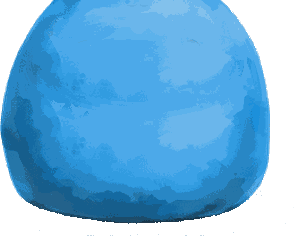
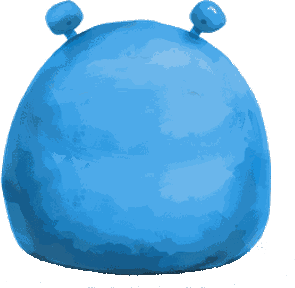
Boldbanen: hele den malede klat som krop
Klatten tegnes nu som det malede billede med oerer, i stedet for kodens
halvcirkel med billedet som overflade. Bredden er fysikkens, hoejden lidt
mere, som oererne altid har vaeret. Ansigtet tegnes stadig i kode og sidder
lidt hoejere paa den malede krop. Uden billede tegnes klatten som foer.
sw.js: v88.

Claude-Session: https://claude.ai/code/session_01JuJ2jhjKv5vpQpqD9x243Z

diff --git a/games/klatbold/js/game.js b/games/klatbold/js/game.js
@@ -473,69 +473,71 @@
     var vinkel = Math.atan2(kigY, kigX);
 
     /* ---- krop ---- */
+    // Den malede klat (billeder/klat-<farve>.png) er kroppen med oerer, uden ansigt.
+    // Den er lidt hoejere end fysikkens halvcirkel, som oererne altid har vaeret;
+    // bredden er den samme, saa bolden rammer, hvor man ser den. Mangler billedet,
+    // tegnes klatten i kode som foer.
+    var b = klatBilleder[farve.fil], malet = !!(b && b.complete && b.naturalWidth);
     c.save();
     c.scale(sqx, sqy);
-
-    // Oerer bag kroppen
-    [-1, 1].forEach(function (d) {
-      c.fillStyle = farve.moerk;
-      c.beginPath();
-      c.ellipse(d * R * 0.5, -R * 0.92, R * 0.19, R * 0.3, d * 0.3, 0, Math.PI * 2);
-      c.fill();
-      c.fillStyle = farve.lak;
-      c.beginPath();
-      c.ellipse(d * R * 0.5, -R * 0.94, R * 0.12, R * 0.21, d * 0.3, 0, Math.PI * 2);
-      c.fill();
-    });
-
-    // Malet halvcirkel: lys foroven, dyb forneden
-    var maling = c.createRadialGradient(-side * R * 0.28, -R * 0.62, R * 0.06, 0, -R * 0.2, R * 1.25);
-    maling.addColorStop(0, farve.lys);
-    maling.addColorStop(0.42, farve.lak);
-    maling.addColorStop(1, farve.moerk);
-    c.beginPath();
-    c.arc(0, 0, R, Math.PI, 0);
-    c.closePath();
-    c.fillStyle = maling;
-    c.fill();
-    // Den malede overflade, klippet til halvcirklen, saa formen (og fysikken) er den samme. Mangler billedet, staar gradienten alene.
-    var b = klatBilleder[farve.fil];
-    if (b && b.complete && b.naturalWidth) {
-      c.save();
-      c.beginPath(); c.arc(0, 0, R, Math.PI, 0); c.closePath(); c.clip();
-      var bb = R * 2.16, bh = R * 1.3;
+    if (malet) {
+      var bb = R * 2.15, bh = R * 1.5;
       c.drawImage(b, -bb / 2, R * 0.04 - bh, bb, bh);
-      c.restore();
+    } else {
+      // Oerer bag kroppen
+      [-1, 1].forEach(function (d) {
+        c.fillStyle = farve.moerk;
+        c.beginPath();
+        c.ellipse(d * R * 0.5, -R * 0.92, R * 0.19, R * 0.3, d * 0.3, 0, Math.PI * 2);
+        c.fill();
+        c.fillStyle = farve.lak;
+        c.beginPath();
+        c.ellipse(d * R * 0.5, -R * 0.94, R * 0.12, R * 0.21, d * 0.3, 0, Math.PI * 2);
+        c.fill();
+      });
+
+      // Malet halvcirkel: lys foroven, dyb forneden
+      var maling = c.createRadialGradient(-side * R * 0.28, -R * 0.62, R * 0.06, 0, -R * 0.2, R * 1.25);
+      maling.addColorStop(0, farve.lys);
+      maling.addColorStop(0.42, farve.lak);
+      maling.addColorStop(1, farve.moerk);
+      c.beginPath();
+      c.arc(0, 0, R, Math.PI, 0);
+      c.closePath();
+      c.fillStyle = maling;
+      c.fill();
+      c.strokeStyle = farve.moerk;
+      c.lineWidth = 3;
+      c.stroke();
     }
-    c.strokeStyle = farve.moerk;
-    c.globalAlpha = 0.55;
-    c.lineWidth = 2.5;
-    c.stroke();
-    c.globalAlpha = 1;
+    {
+      // Skygge langs jorden, saa den staar paa banen
+      c.save();
+      c.beginPath();
+      c.arc(0, 0, R, Math.PI, 0);
+      c.closePath();
+      c.clip();
+      var bund = c.createLinearGradient(0, -R * 0.35, 0, 0);
+      bund.addColorStop(0, 'rgba(74,58,44,0)');
+      bund.addColorStop(1, 'rgba(74,58,44,0.28)');
+      c.fillStyle = bund;
+      c.fillRect(-R, -R, R * 2, R);
+      c.restore();
 
-    // Skygge langs jorden, saa den staar paa banen
-    c.save();
-    c.beginPath();
-    c.arc(0, 0, R, Math.PI, 0);
-    c.closePath();
-    c.clip();
-    var bund = c.createLinearGradient(0, -R * 0.35, 0, 0);
-    bund.addColorStop(0, 'rgba(74,58,44,0)');
-    bund.addColorStop(1, 'rgba(74,58,44,0.28)');
-    c.fillStyle = bund;
-    c.fillRect(-R, -R, R * 2, R);
-    c.restore();
-
-    // Glans
-    c.fillStyle = 'rgba(255,255,255,0.26)';
-    c.beginPath();
-    c.ellipse(-side * R * 0.36, -R * 0.66, R * 0.2, R * 0.09, -side * 0.5, 0, Math.PI * 2);
-    c.fill();
+      if (!malet) {
+        // Glans
+        c.fillStyle = 'rgba(255,255,255,0.26)';
+        c.beginPath();
+        c.ellipse(-side * R * 0.36, -R * 0.66, R * 0.2, R * 0.09, -side * 0.5, 0, Math.PI * 2);
+        c.fill();
+      }
+    }
     c.restore();
 
     /* ---- ansigt ---- */
     // Ansigtet sidder paa den side klatten kigger, men holder sig inden for kroppen.
-    var øx = side * R * 0.36, øy = -R * 0.48;
+    // Paa den malede krop sidder ansigtet hoejere og lidt taettere paa midten
+    var øx = side * R * (malet ? 0.32 : 0.36), øy = -R * (malet ? 0.8 : 0.48);
 
     function oejne(rr, laag) {
       [-1, 1].forEach(function (d) {

diff --git a/sw.js b/sw.js
@@ -5,7 +5,7 @@
  * Naar du tilfoejer en fil til projektet, skal den med i FILER nedenfor,
  * og VERSION skal taelles op — ellers henter iPad'en den gamle version.
  */
-const VERSION = 'sfo-spil-v87';
+const VERSION = 'sfo-spil-v88';
 
 const FILER = [
   './',

diff --git a/README.md b/README.md
@@ -187,13 +187,13 @@ reaktionstid og hoppelyst for 1, 2 og 3 stjerner. Kør `npm test` bagefter.
 Klatterne er tegnet i kode i `games/klatbold/js/game.js`. `FARVER` er de seks
 farver med en lys top, en grundfarve og en dyb bund, og `tegnKlatForm` tegner
 kroppen og de fem ansigter: glad, sej og sød vælger barnet selv, og jubel og
-sur kommer af sig selv, når der bliver scoret. Oven på halvcirklen lægges en
-malet akvarelkrop fra `billeder/`, én pr. farve, klippet til formen; ét
-billede er malet, de fem andre er farvet om i kode, og ansigtet er fjernet, så
-koden stadig tegner øjne, der følger bolden. Mangler billedet, står kodens
-gradient alene. Kroppen er stadig en halvcirkel med radius `klatRadius`,
-præcis som i fysikken — ændrer man tegningen, må den ikke blive større eller
-mindre end det, bolden rammer.
+sur kommer af sig selv, når der bliver scoret. Kroppen er en malet
+akvarelklat fra `billeder/`, én pr. farve, med ører og uden ansigt; ét billede
+er malet, de fem andre er farvet om i kode, og koden tegner ansigtet ovenpå,
+så øjnene stadig følger bolden. Mangler billedet, tegnes klatten i kode som
+før. Den malede krop er lige så bred som fysikkens halvcirkel med radius
+`klatRadius` og lidt højere, som ørerne altid har været — ændrer man
+tegningen, må den ikke blive bredere eller smallere end det, bolden rammer.
 
 ## Skrue på Boblehavet
 

diff --git a/games/klatbold/billeder/NOTICE.md b/games/klatbold/billeder/NOTICE.md
@@ -13,11 +13,12 @@ Agreement. Der er ingen tredjepartsfigurer i den.
 Efterbehandling i kode (Pillow): den hvide baggrund er skaaret fra; det
 malede ansigt er daekket med et stykke af kroppen laengere nede, med bloed
 kant, saa spillet selv kan tegne de tre ansigter og oejne, der foelger bolden;
-oerer og skygge er klippet vaek; og de fem andre farver er lavet ved at flytte
+skyggen paa jorden er klippet vaek, oererne er med; og de fem andre farver er lavet ved at flytte
 kroppens roede toner til spillets farve, mens lys og moerke i penselstroegene
 er bevaret. Hver fil er 8-bit PNG med palet paa 7-10 KB.
 
-Skaermen laegger billedet oven paa den halvcirkel, koden tegner, klippet til
-formen, saa klattens form og fysik er uaendret. Mangler et billede, staar
-kodens gradient alene, og spillet virker alligevel. Nye billeder skal med i
+Skaermen tegner billedet som klattens krop, lige saa bred som fysikkens
+halvcirkel og lidt hoejere, som oererne altid har vaeret, saa bolden rammer,
+hvor man ser den. Mangler et billede, tegnes klatten i kode som foer, og
+spillet virker alligevel. Nye billeder skal med i
 `FILER` i `sw.js`.
